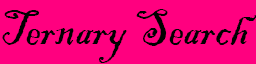
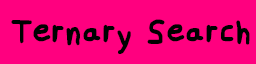
Create new menu button images
Apply my personal handwriting font

Changed region(s): [[0.0, 0.125, 1.0, 1.0]]

diff --git a/css/style.css b/css/style.css
@@ -82,16 +82,6 @@ tr.spaceUnder > th
 #other{
     margin-bottom: 30px;
 }
-#gramers_logo{
-    width:542px;
-    height:650px;
-    display:block;
-    position:relative;
-    left:550px;
-    margin-left:-271px;
-    opacity:0;
-    z-index:2;
-}
 #gramers_social_networks{
     position:relative;    
     width:25%;
